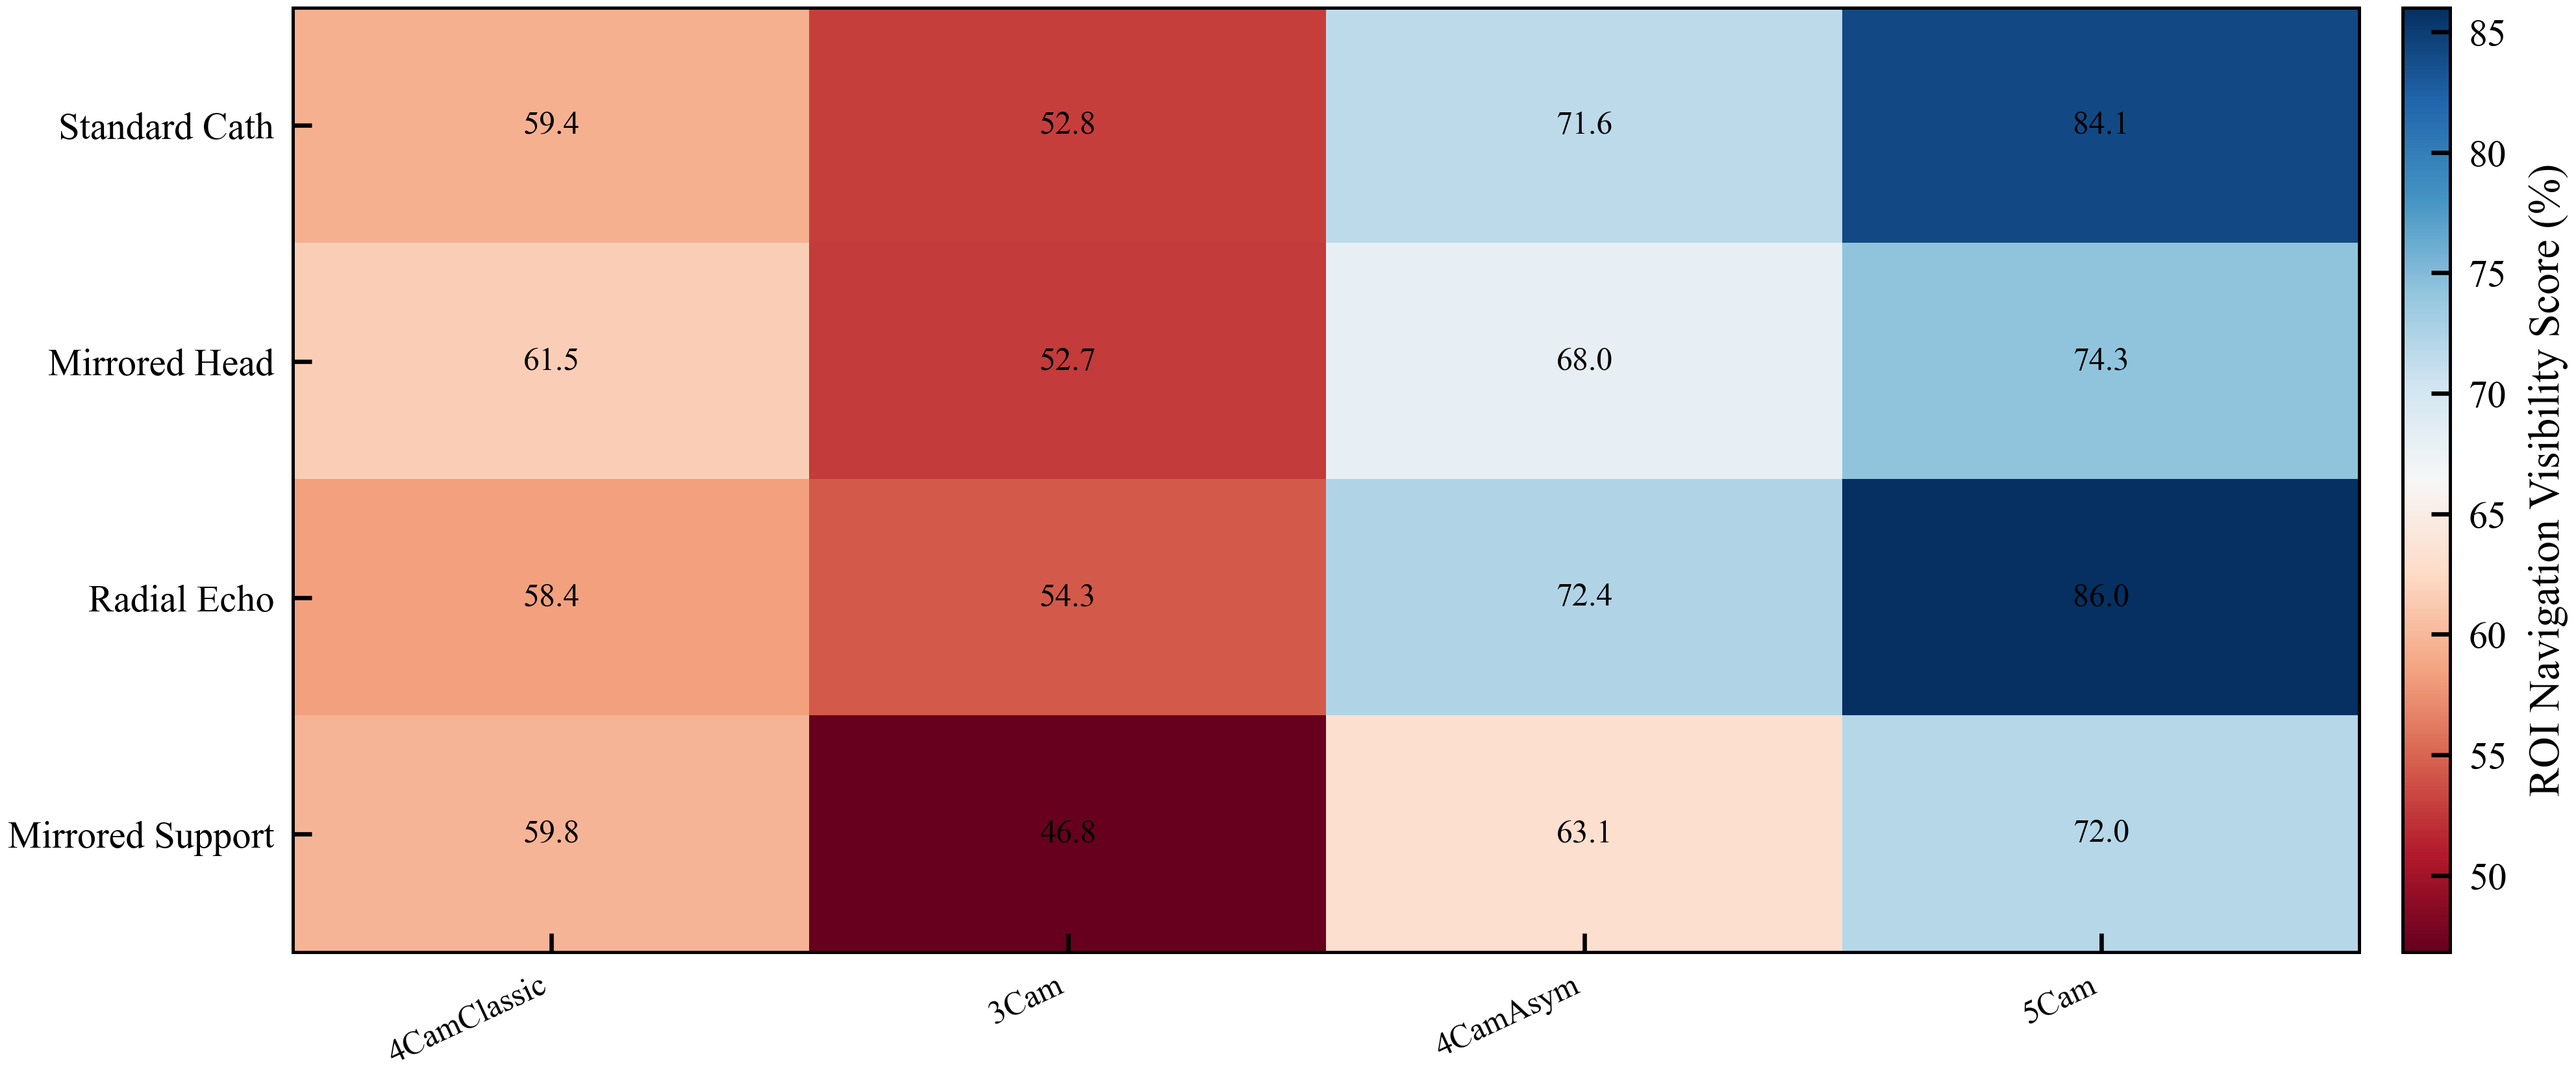
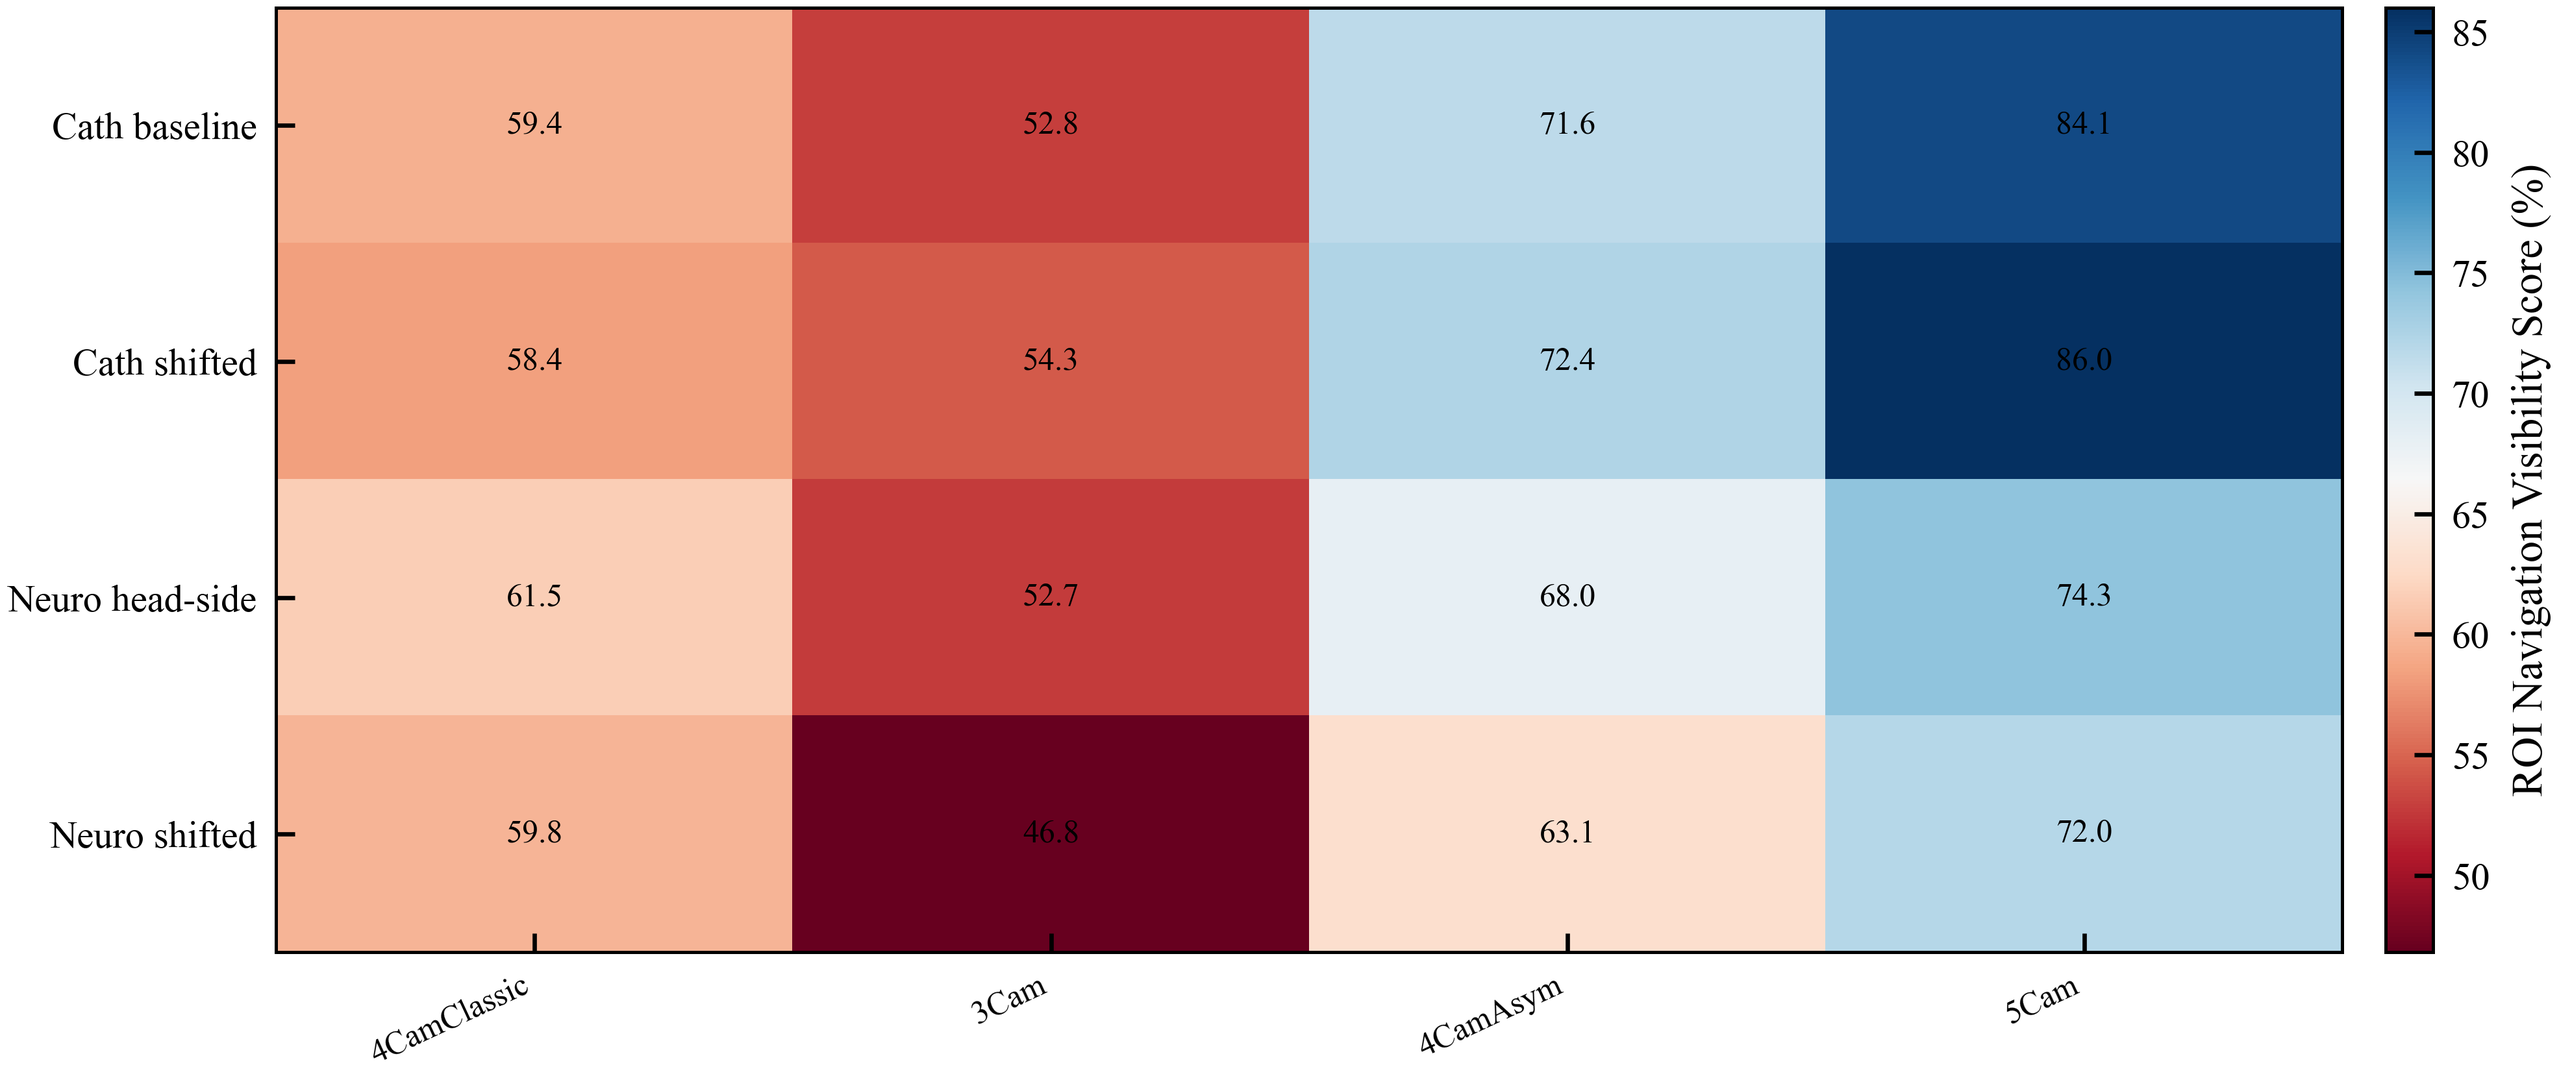
Update layout robustness labels

diff --git a/src/source_camera_rig_metrics.py b/src/source_camera_rig_metrics.py
@@ -65,8 +65,8 @@ EXPECTED_CAMERA_COUNTS = {
 
 LAYOUT_ORDER = [
     "C1_standard_cath",
-    "N1_mirrored_head",
     "C2_radial_echo",
+    "N1_mirrored_head",
     "N2_mirrored_support",
 ]
 
@@ -150,10 +150,10 @@ ROBOT_RELEVANT_GROUPS = {
 }
 
 LAYOUT_DISPLAY_NAMES = {
-    "C1_standard_cath": "Standard Cath",
-    "N1_mirrored_head": "Mirrored Head",
-    "C2_radial_echo": "Radial Echo",
-    "N2_mirrored_support": "Mirrored Support",
+    "C1_standard_cath": "Cath baseline",
+    "C2_radial_echo": "Cath shifted",
+    "N1_mirrored_head": "Neuro head-side",
+    "N2_mirrored_support": "Neuro shifted",
 }
 
 SUMMARY_METRICS = [

diff --git a/metrics/values/SUMMARY_layout_robustness.md b/metrics/values/SUMMARY_layout_robustness.md
@@ -4,19 +4,19 @@ Layout-specific medians use the active metric scope: `roi`. The score is based o
 
 |Layout|Rig|Samples|ROI Navigation Visibility Score (%)|Observable Surface (%)|Redundant Surface (%)|Strong Redundancy (%)|Blind Surface (%)|
 |---|---|---|---|---|---|---|---|
-|Standard Cath|4CamClassic|10|59.4|91.5|60.7|9.9|8.5|
-|Standard Cath|3Cam|10|52.8|95.1|43.6|4.2|4.9|
-|Standard Cath|4CamAsym|10|71.6|97.7|75.0|27.0|2.3|
-|Standard Cath|5Cam|10|84.1|98.3|87.4|59.8|1.7|
-|Mirrored Head|4CamClassic|10|61.5|92.3|67.9|10.1|7.7|
-|Mirrored Head|3Cam|10|52.7|85.1|46.4|9.3|14.9|
-|Mirrored Head|4CamAsym|10|68.0|89.9|66.3|35.0|10.1|
-|Mirrored Head|5Cam|10|74.3|91.7|72.3|52.3|8.3|
-|Radial Echo|4CamClassic|10|58.4|89.7|61.7|9.9|10.3|
-|Radial Echo|3Cam|10|54.3|93.5|47.2|6.1|6.5|
-|Radial Echo|4CamAsym|10|72.4|97.5|75.1|31.4|2.5|
-|Radial Echo|5Cam|10|86.0|98.2|91.4|62.4|1.8|
-|Mirrored Support|4CamClassic|10|59.8|87.7|64.1|9.3|12.3|
-|Mirrored Support|3Cam|10|46.8|74.9|36.1|5.8|25.1|
-|Mirrored Support|4CamAsym|10|63.1|87.6|59.0|26.1|12.4|
-|Mirrored Support|5Cam|10|72.0|89.5|70.0|44.3|10.5|
+|Cath baseline|4CamClassic|10|59.4|91.5|60.7|9.9|8.5|
+|Cath baseline|3Cam|10|52.8|95.1|43.6|4.2|4.9|
+|Cath baseline|4CamAsym|10|71.6|97.7|75.0|27.0|2.3|
+|Cath baseline|5Cam|10|84.1|98.3|87.4|59.8|1.7|
+|Cath shifted|4CamClassic|10|58.4|89.7|61.7|9.9|10.3|
+|Cath shifted|3Cam|10|54.3|93.5|47.2|6.1|6.5|
+|Cath shifted|4CamAsym|10|72.4|97.5|75.1|31.4|2.5|
+|Cath shifted|5Cam|10|86.0|98.2|91.4|62.4|1.8|
+|Neuro head-side|4CamClassic|10|61.5|92.3|67.9|10.1|7.7|
+|Neuro head-side|3Cam|10|52.7|85.1|46.4|9.3|14.9|
+|Neuro head-side|4CamAsym|10|68.0|89.9|66.3|35.0|10.1|
+|Neuro head-side|5Cam|10|74.3|91.7|72.3|52.3|8.3|
+|Neuro shifted|4CamClassic|10|59.8|87.7|64.1|9.3|12.3|
+|Neuro shifted|3Cam|10|46.8|74.9|36.1|5.8|25.1|
+|Neuro shifted|4CamAsym|10|63.1|87.6|59.0|26.1|12.4|
+|Neuro shifted|5Cam|10|72.0|89.5|70.0|44.3|10.5|
